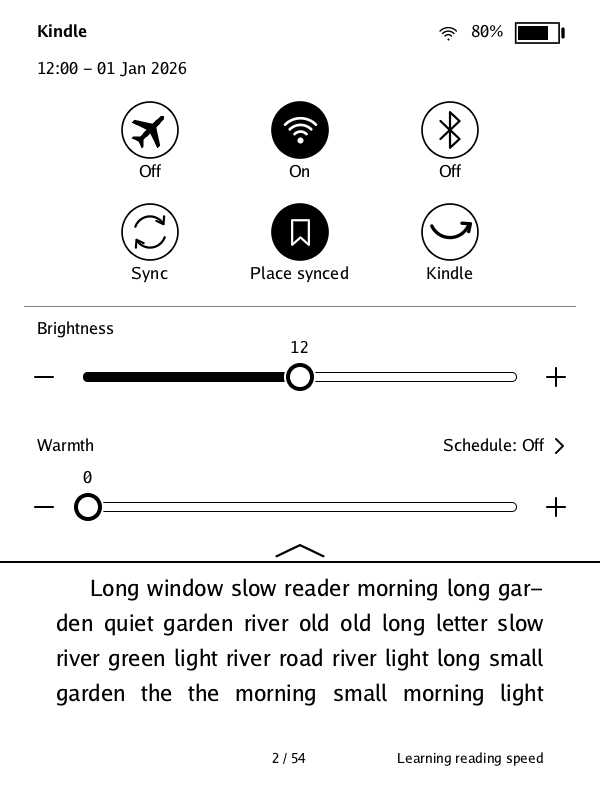
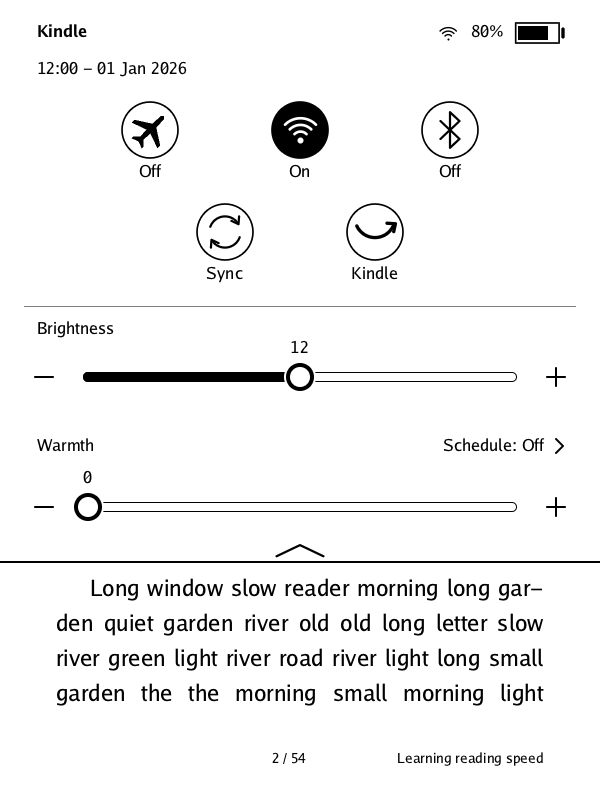
fix: a book sent to the Kindle shows in the library without waking it: the library looks at the Kindle's catalog at every tick and, after Sync, every few seconds for a while, and a book stuck as downloading no longer hides the catalog's changes; Sync turns back from Syncing once the Kindle says the 

Changed region(s): [[0.33, 0.25, 0.81, 0.3438], [0.18, 0.25, 0.3, 0.3438]]

diff --git a/README.md b/README.md
@@ -68,8 +68,8 @@ software: you can go back to it from noface's panel at any time.
   highlights and bookmarks, footnotes, contents and Go To, a Back button after jumps,
   search, the device's typefaces and your own, size, spacing, margins, justification
   and hyphenation, a clock, full-screen pictures with zoom, reading stats, your own
-  picture on the lock screen, and a pull-down panel for Wi‑Fi, Bluetooth, sync, light,
-  warmth and keeping your place in step.
+  picture on the lock screen, and a pull-down panel for Wi‑Fi, Bluetooth, sync, light
+  and warmth.
 
 ## What keeps working
 
@@ -84,7 +84,7 @@ more devices are supported.
 | Books from Amazon and Send to Kindle | In noface's library with the rest, and they open in noface when they have no DRM. |
 | Books with DRM | Open in the Kindle's own reader, as before. noface never works around DRM. |
 | Highlights and bookmarks | On books from Amazon they sync with the Kindle apps both ways. On EPUBs copied over USB they stay with noface, as Amazon doesn't know those books. |
-| Where you stopped | On books from Amazon and Send to Kindle, the Kindle apps and your other devices go on from where you left off in noface, and noface from where they, or the Kindle's own reader, did. Read on your phone since, and the library shows how far you got; opening the book, noface asks whether to go there, as the Kindle does. It can be turned off. |
+| Where you stopped | On books from Amazon and Send to Kindle, the Kindle apps and your other devices go on from where you left off in noface, and noface from where they, or the Kindle's own reader, did. Read on your phone since, and the library shows how far you got; opening the book, noface asks whether to go there, as the Kindle does. |
 | Wi‑Fi, Bluetooth, sync, light, warmth | In noface's pull-down panel. Wi‑Fi is off while a book is open, to save battery, and comes back when you leave the book, so syncing happens between books. |
 | Typefaces | The Kindle's own, and any you add. |
 | Dictionary | noface's own, built from Wiktionary, downloaded the first time you look up a word. The Kindle's dictionaries aren't used. |

diff --git a/docs/DEVELOPING.md b/docs/DEVELOPING.md
@@ -233,8 +233,7 @@ noface saves a place it also saves where the book ends in the device's numbering
 (`outside_end` in the book's state file), and the library turns a place newer than
 both the stock reader's and noface's into a percent by it (`library/builder.zig`
 `merged`). A book noface hasn't opened since has no end saved and shows the catalog's
-percent. With the place's sync turned off in the panel, the library leaves these
-places out, and the index is built again.
+percent.
 
 ## Layout
 
